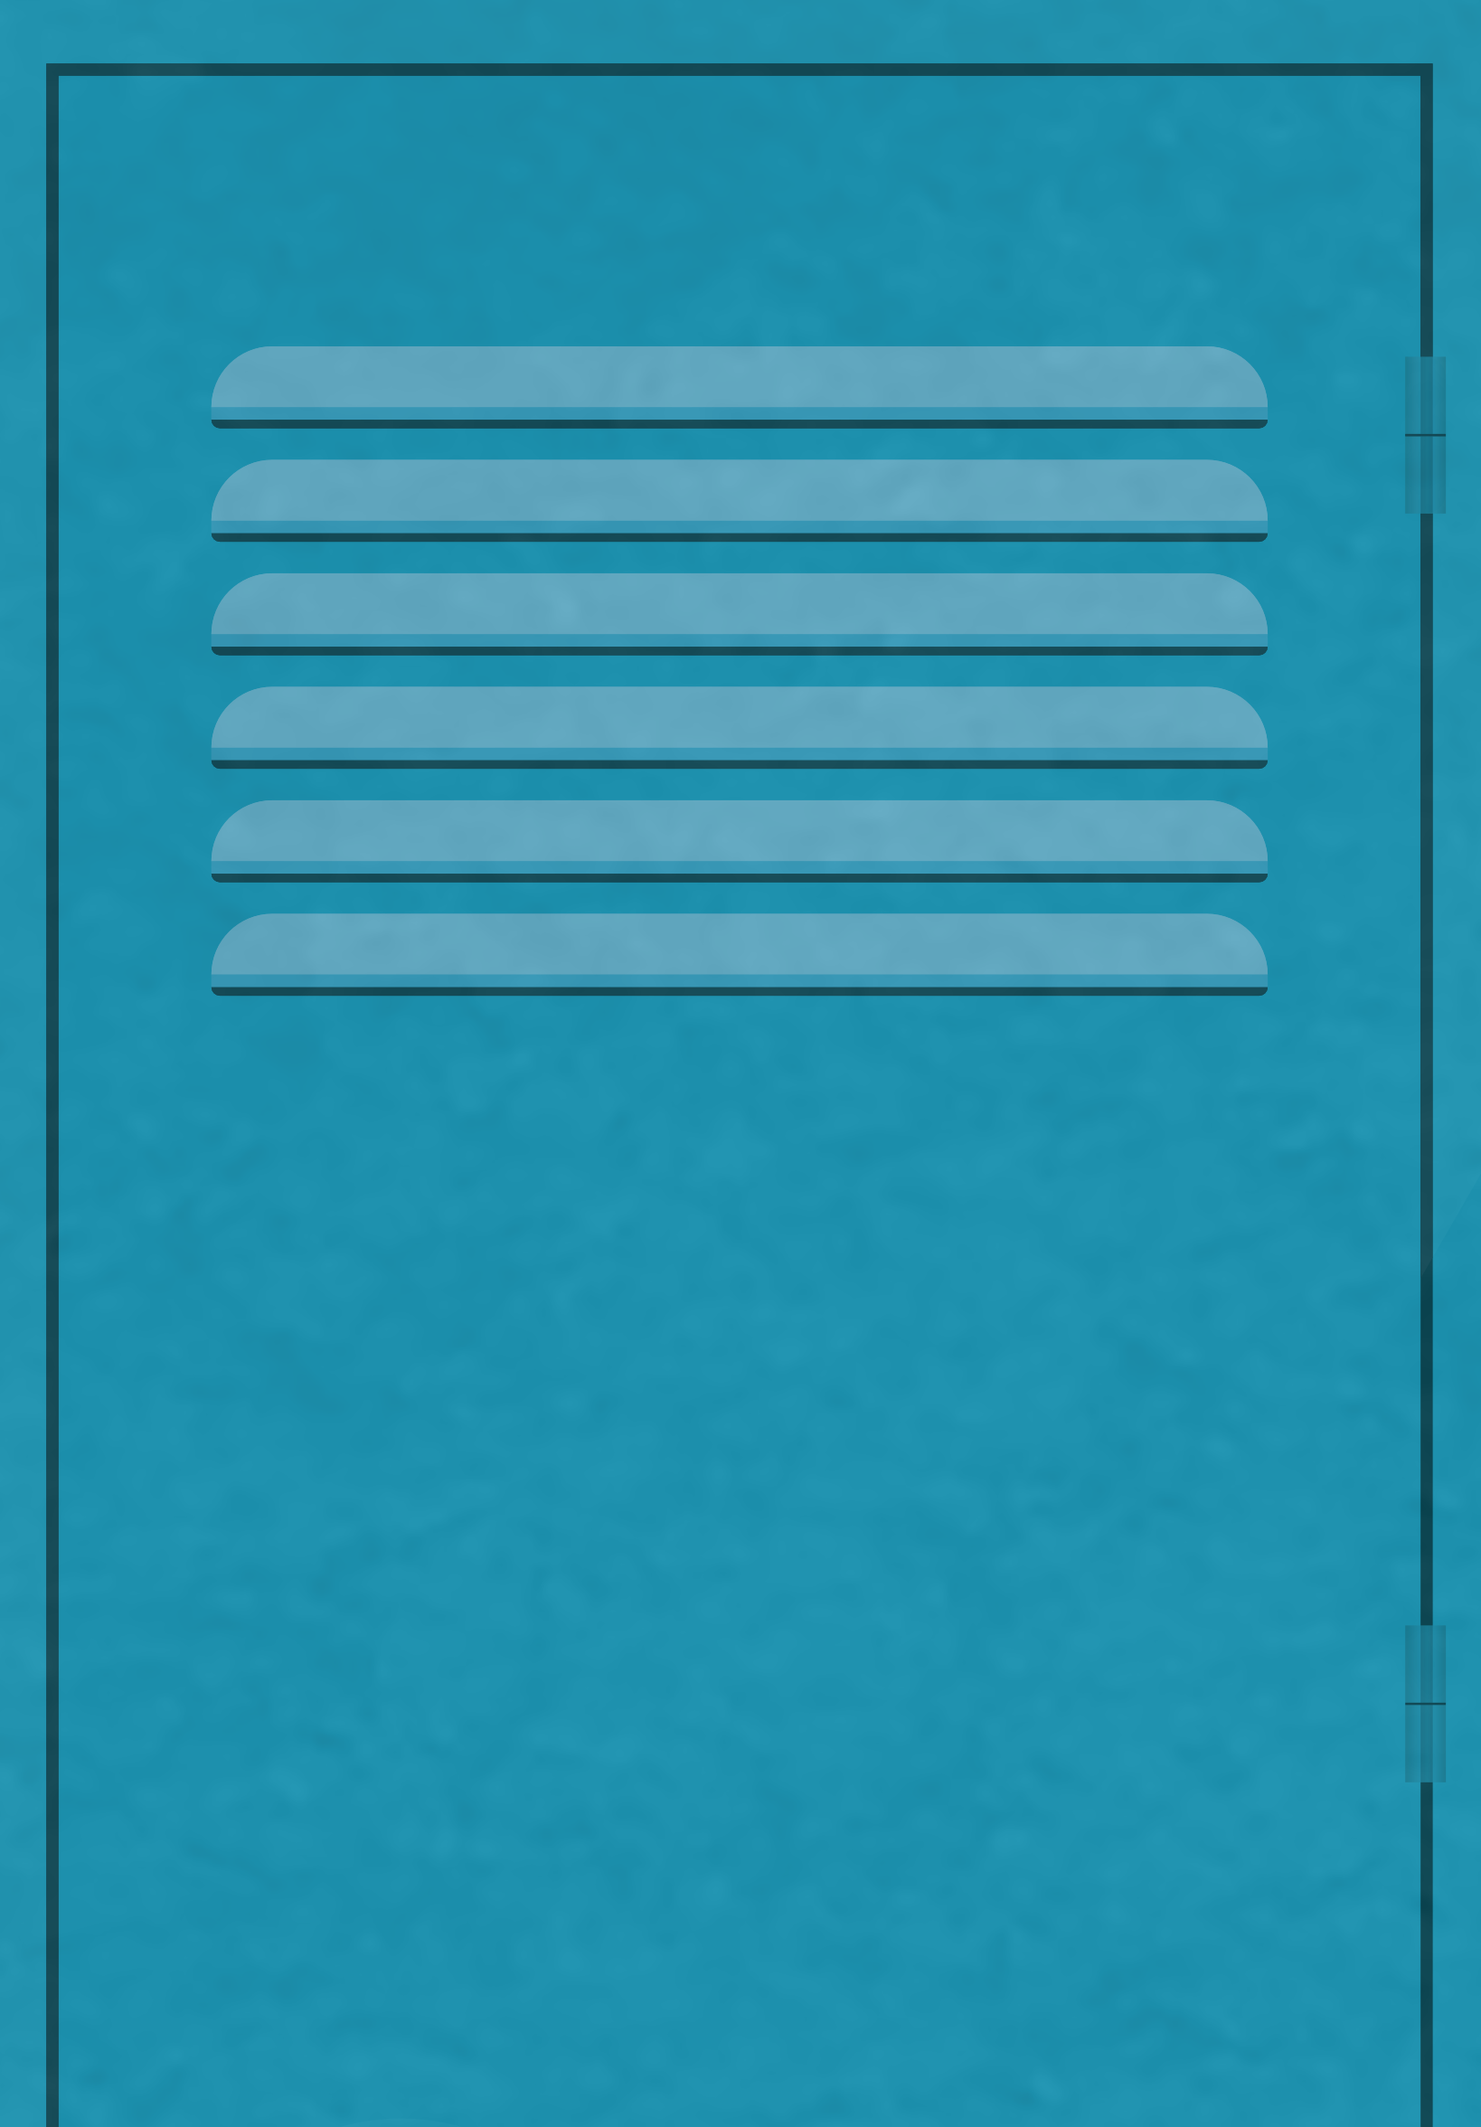
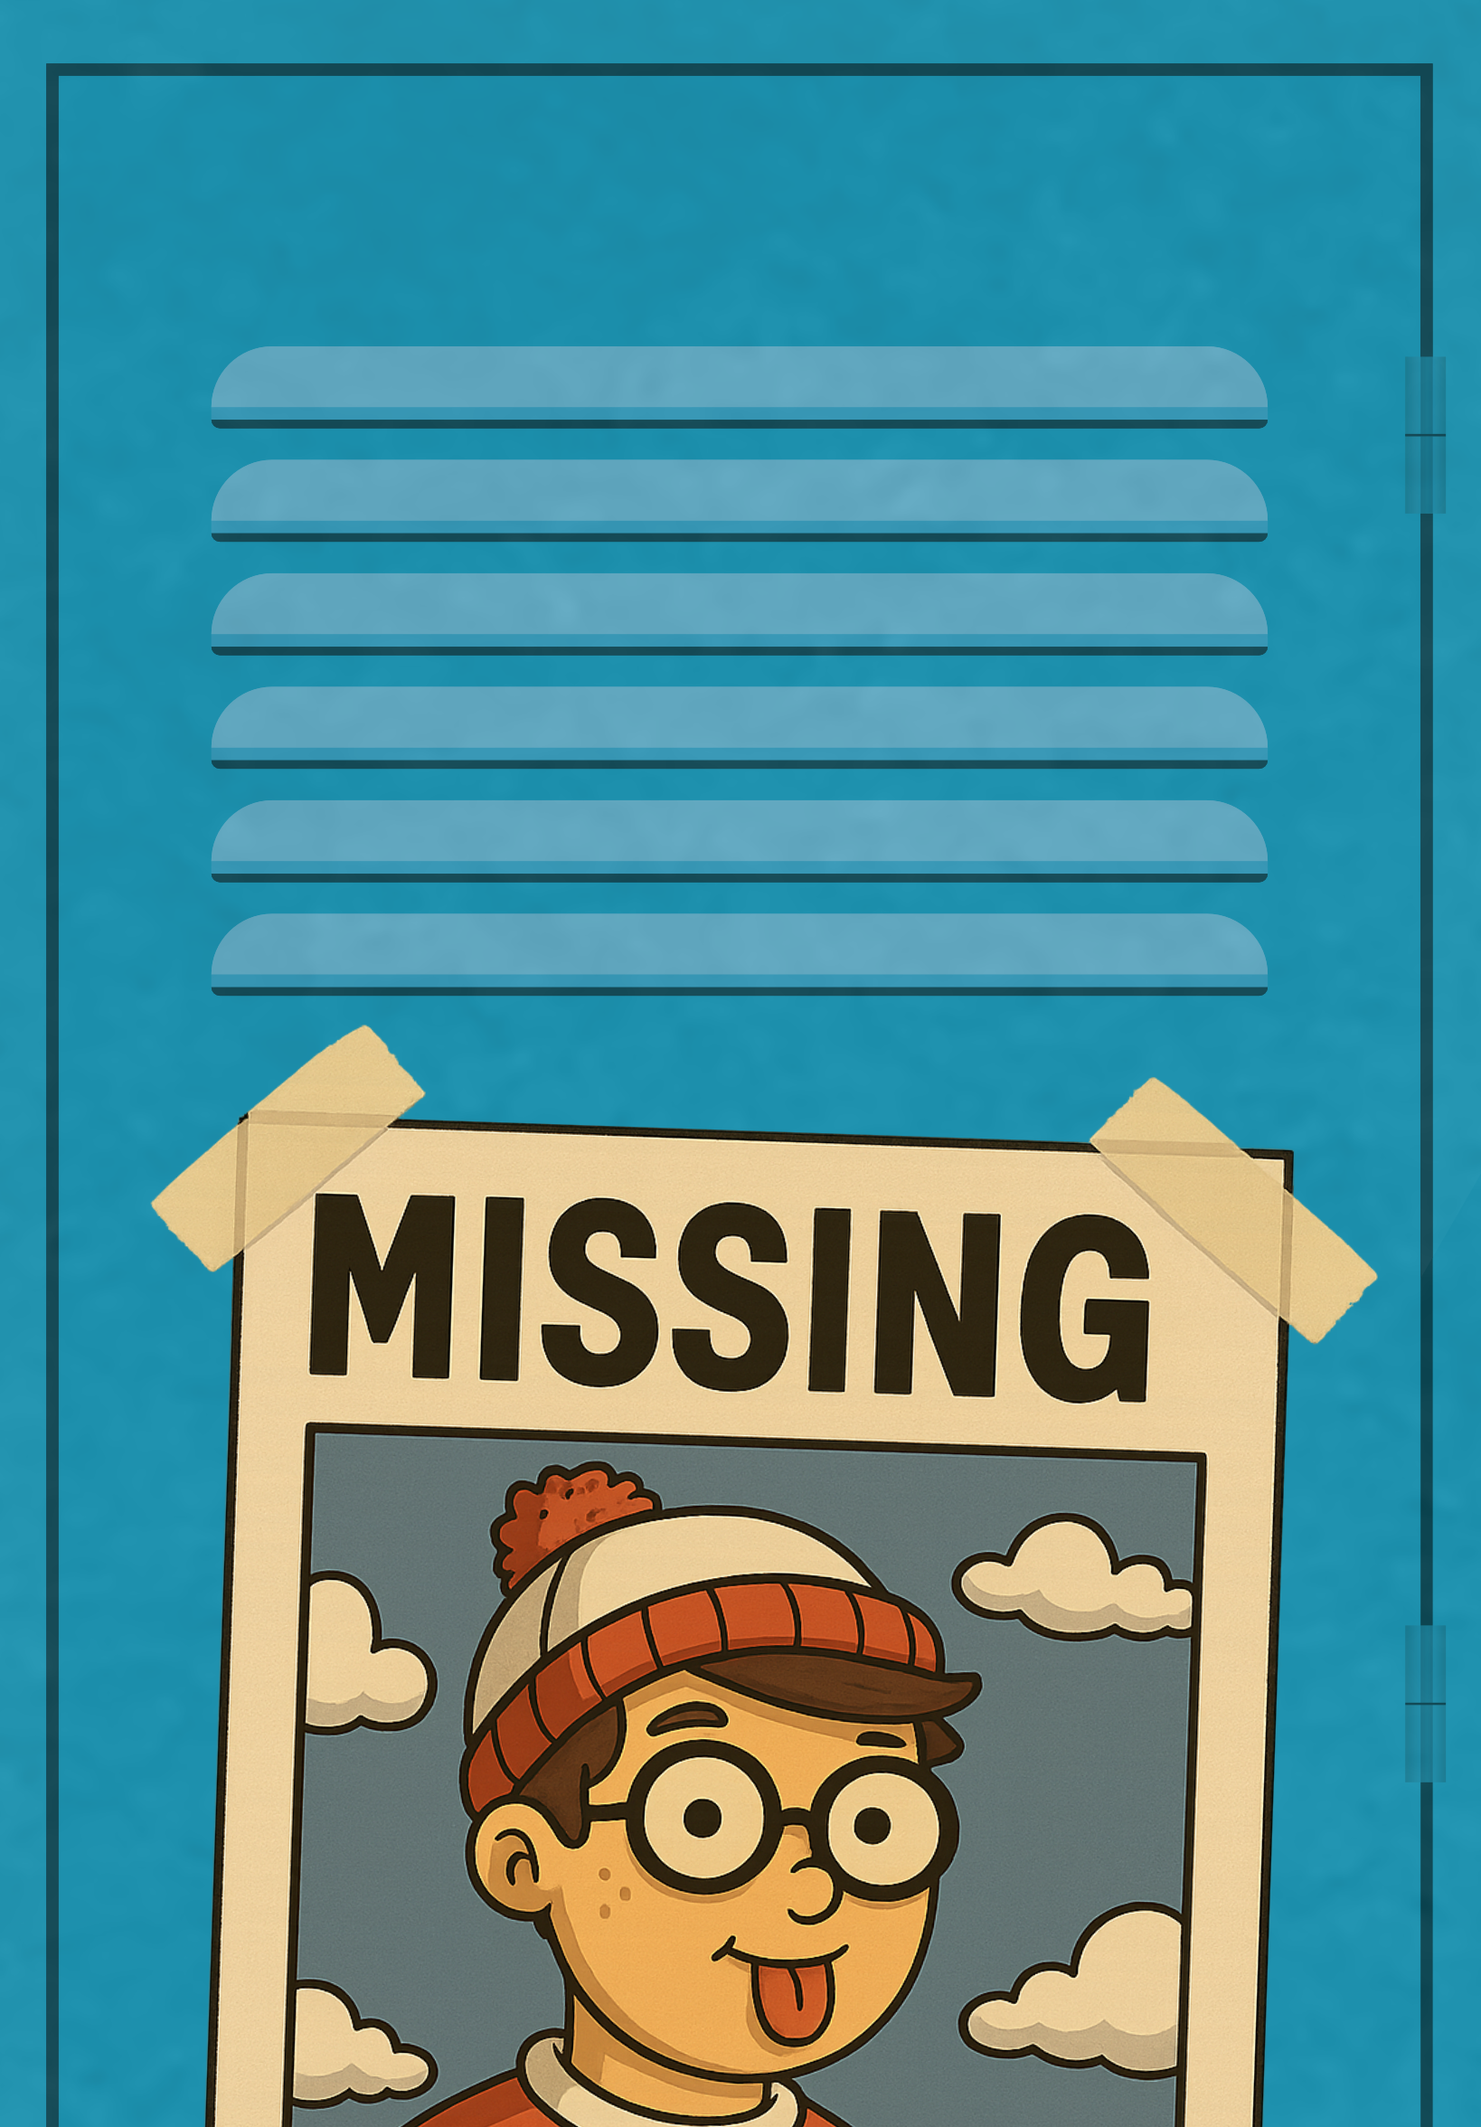
yes

diff --git a/src/windows/LockerSystemNew.tsx b/src/windows/LockerSystemNew.tsx
@@ -714,185 +714,51 @@ const LockerSystemNew: React.FC = () => {
                       ))}
                     </div>
 
-                    {/* Section 1: Top - 8-Bit Pixel Locker Interface */}
-                    <div className="locker-section pixel-locker" style={{
+                    {/* Section 1: Top - My Locker Front Image */}
+                    <div className="locker-section" style={{
                       height: '80vh',
+                      minHeight: '400px',
+                      backgroundImage: 'url(/images/my-locker-front.png)',
+                      backgroundSize: 'contain',
+                      backgroundPosition: 'center',
+                      backgroundRepeat: 'no-repeat',
+                      // Fallback if image doesn't load
+                      backgroundColor: '#4a90e2',
+                      position: 'relative',
                       display: 'flex',
+                      flexDirection: 'column',
                       alignItems: 'center',
                       justifyContent: 'center',
-                      textAlign: 'center',
-                      position: 'relative',
-                      background: `
-                        linear-gradient(180deg, 
-                          #4a90e2 0%, #357abd 20%, #2c5f88 40%, #357abd 60%, #4a90e2 80%, #5ba0f2 100%
-                        )
-                      `
+                      padding: '20px'
                     }}>
-                      {/* 8-Bit Style Locker Door */}
+                      {/* Optional overlay with locker info */}
                       <div style={{
-                        width: 'min(400px, 90vw)',
-                        height: 'min(500px, 70vh)',
-                        background: `
-                          linear-gradient(90deg, 
-                            #7c7c7c 0%, #a0a0a0 5%, #d4d4d4 10%, #f0f0f0 15%, #d4d4d4 20%, #a0a0a0 25%, #7c7c7c 30%,
-                            #7c7c7c 70%, #a0a0a0 75%, #d4d4d4 80%, #f0f0f0 85%, #d4d4d4 90%, #a0a0a0 95%, #7c7c7c 100%
-                          )
-                        `,
-                        border: '6px solid #333',
+                        position: 'absolute',
+                        bottom: '20px',
+                        left: '50%',
+                        transform: 'translateX(-50%)',
+                        background: 'rgba(0,0,0,0.8)',
+                        color: '#FFD700',
+                        padding: '15px 25px',
                         borderRadius: '8px',
-                        position: 'relative',
-                        display: 'flex',
-                        flexDirection: 'column',
-                        alignItems: 'center',
-                        justifyContent: 'space-between',
-                        padding: '20px',
-                        boxShadow: `
-                          0 0 0 2px #666,
-                          0 0 0 4px #999,
-                          inset 0 0 20px rgba(255, 255, 255, 0.3),
-                          0 8px 16px rgba(0, 0, 0, 0.4)
-                        `,
-                        imageRendering: 'pixelated'
+                        textAlign: 'center',
+                        border: '2px solid #FFD700',
+                        backdropFilter: 'blur(5px)'
                       }}>
-                        
-                        {/* Locker Vents - Top */}
                         <div style={{
-                          width: '80%',
-                          height: '40px',
-                          background: `
-                            repeating-linear-gradient(0deg,
-                              #333 0px, #333 3px, 
-                              transparent 3px, transparent 8px
-                            )
-                          `,
-                          border: '2px solid #222',
-                          borderRadius: '4px'
-                        }} />
-                        
-                        {/* Username Display Area - Pixel Style Nameplate */}
-                        <div className="pixel-nameplate" style={{
-                          width: '90%',
-                          background: `
-                            linear-gradient(45deg, 
-                              #ff6b35 0%, #f7931e 25%, #ffd700 50%, #f7931e 75%, #ff6b35 100%
-                            )
-                          `,
-                          border: '4px solid #333',
-                          borderRadius: '8px',
-                          padding: '15px 10px',
-                          margin: '10px 0',
-                          position: 'relative'
+                          fontSize: 'clamp(16px, 4vw, 20px)',
+                          fontWeight: 'bold',
+                          marginBottom: '5px'
                         }}>
-                          <div style={{
-                            background: '#000',
-                            color: '#00ff00',
-                            fontFamily: 'Courier New, monospace',
-                            fontSize: 'clamp(14px, 4vw, 20px)',
-                            fontWeight: 'bold',
-                            padding: '8px',
-                            borderRadius: '4px',
-                            border: '2px solid #00ff00',
-                            textShadow: '0 0 8px #00ff00',
-                            letterSpacing: '2px',
-                            textTransform: 'uppercase'
-                          }}>
-                            {lockerInfo.username || 'STUDENT'}
-                          </div>
+                          {lockerInfo.username || 'STUDENT'}
                         </div>
-                        
-                        {/* Locker Number Display - Classic Arcade Style */}
                         <div style={{
-                          width: '70%',
-                          background: `
-                            radial-gradient(circle, 
-                              #ff00ff 0%, #8b00ff 30%, #4b0082 60%, #000 100%
-                            )
-                          `,
-                          border: '6px solid #333',
-                          borderRadius: '12px',
-                          padding: '20px',
-                          margin: '15px 0',
-                          position: 'relative',
-                          boxShadow: `
-                            inset 0 0 20px rgba(255, 0, 255, 0.5),
-                            0 0 30px rgba(255, 0, 255, 0.3)
-                          `
+                          fontSize: 'clamp(18px, 5vw, 24px)',
+                          fontWeight: 'bold',
+                          color: '#FFD700',
+                          textShadow: '0 0 8px #FFD700'
                         }}>
-                          <div style={{
-                            color: '#00ffff',
-                            fontFamily: 'Courier New, monospace',
-                            fontSize: 'clamp(24px, 6vw, 36px)',
-                            fontWeight: 'bold',
-                            textShadow: `
-                              0 0 10px #00ffff,
-                              0 0 20px #00ffff,
-                              0 0 30px #00ffff
-                            `,
-                            letterSpacing: '3px'
-                          }}>
-                            LOCKER
-                          </div>
-                          <div style={{
-                            color: '#ffff00',
-                            fontFamily: 'Courier New, monospace',
-                            fontSize: 'clamp(32px, 8vw, 48px)',
-                            fontWeight: 'bold',
-                            textShadow: `
-                              0 0 10px #ffff00,
-                              0 0 20px #ffff00,
-                              0 0 30px #ffff00
-                            `,
-                            letterSpacing: '4px',
-                            marginTop: '5px'
-                          }}>
-                            #{lockerInfo.locker_number}
-                          </div>
-                        </div>
-                        
-                        {/* Locker Handle - Pixel Art Style */}
-                        <div style={{
-                          width: '20px',
-                          height: '60px',
-                          background: `
-                            linear-gradient(90deg, 
-                              #ffd700 0%, #ffed4e 50%, #ffd700 100%
-                            )
-                          `,
-                          border: '3px solid #333',
-                          borderRadius: '10px',
-                          position: 'absolute',
-                          right: '15px',
-                          top: '50%',
-                          transform: 'translateY(-50%)',
-                          boxShadow: `
-                            inset 0 0 10px rgba(255, 215, 0, 0.8),
-                            2px 2px 5px rgba(0, 0, 0, 0.5)
-                          `
-                        }}>
-                          <div style={{
-                            width: '8px',
-                            height: '8px',
-                            background: '#333',
-                            borderRadius: '50%',
-                            margin: '26px auto'
-                          }} />
-                        </div>
-                        
-                        {/* Digital Welcome Message */}
-                        <div style={{
-                          background: '#000',
-                          color: '#00ff00',
-                          fontFamily: 'Courier New, monospace',
-                          fontSize: 'clamp(10px, 2.5vw, 14px)',
-                          padding: '8px',
-                          border: '2px solid #00ff00',
-                          borderRadius: '4px',
-                          textAlign: 'center',
-                          width: '90%',
-                          textShadow: '0 0 5px #00ff00',
-                          animation: 'pixelGlow 2s ease-in-out infinite'
-                        }}>
-                          &gt; WELCOME TO YOUR LOCKER_
+                          LOCKER #{lockerInfo.locker_number}
                         </div>
                       </div>
                     </div>

diff --git a/src/windows/Locations/ArcadeMain.tsx b/src/windows/Locations/ArcadeMain.tsx
@@ -17,9 +17,9 @@ const ArcadeMain = () => {
   const entranceAudioRef = useRef<HTMLAudioElement | null>(null);
   const [isEntranceMuted, setIsEntranceMuted] = useState(false);
 
-  // Use your uploaded day/night images for Arcade
-  const dayImage = "/images/icons/arcade-day.png";
-  const nightImage = "/images/icons/arcade-night.png";
+  // Use the "Flunko missing" themed day/night images for Arcade
+  const dayImage = "/images/icons/arcade-flunko-day.png";
+  const nightImage = "/images/icons/arcade-flunko-night.png";
   const timeBasedInfo = useTimeBasedImage(dayImage, nightImage);
 
   // Initialize background music for arcade entrance
@@ -419,14 +419,31 @@ const ArcadeMain = () => {
         <div style={{
           textAlign: 'center',
           padding: '20px',
-          background: 'linear-gradient(45deg, #FFD700, #FF69B4, #9370DB)',
-          WebkitBackgroundClip: 'text',
-          WebkitTextFillColor: 'transparent',
-          fontSize: '32px',
-          fontWeight: 'bold',
           fontFamily: "'Press Start 2P', monospace"
         }}>
-          🧙♂ WELCOME TO THE WIZARD'S ARCADE! 🧙♂
+          <div style={{
+            background: 'linear-gradient(45deg, #FFD700, #FF6347)',
+            WebkitBackgroundClip: 'text',
+            WebkitTextFillColor: 'transparent',
+            fontSize: 'clamp(20px, 4vw, 28px)',
+            fontWeight: 'bold',
+            marginBottom: '8px',
+            textShadow: '2px 2px 0px #000, -2px -2px 0px #000, 2px -2px 0px #000, -2px 2px 0px #000',
+            letterSpacing: '2px'
+          }}>
+            🧙♂ WELCOME TO 🧙♂
+          </div>
+          <div style={{
+            background: 'linear-gradient(45deg, #9370DB, #FF69B4)',
+            WebkitBackgroundClip: 'text',
+            WebkitTextFillColor: 'transparent',
+            fontSize: 'clamp(18px, 3.5vw, 24px)',
+            fontWeight: 'bold',
+            textShadow: '2px 2px 0px #000, -2px -2px 0px #000, 2px -2px 0px #000, -2px 2px 0px #000',
+            letterSpacing: '3px'
+          }}>
+            THE WIZARD'S ARCADE!
+          </div>
         </div>
 
         {/* Top Row - 4 buttons */}
@@ -680,8 +697,8 @@ const ArcadeMain = () => {
           onClose={() => closeWindow(WINDOW_IDS.ARCADE_LOBBY)}
           headerTitle="🧙♂ Wizard's Arcade Lobby"
           headerIcon="/images/icons/arcade-day.png"
-          initialWidth="900px"
-          initialHeight="700px"
+          initialWidth="1050px"
+          initialHeight="800px"
           resizable={true}
         >
           <ArcadeLobby />
@@ -698,7 +715,7 @@ const ArcadeMain = () => {
           src={timeBasedInfo.currentImage}
           alt={`Arcade Background - ${timeBasedInfo.isDay ? 'Day' : 'Night'}`}
           className="block object-contain z-0 transition-opacity duration-500"
-          style={{ maxHeight: '500px', maxWidth: '700px', width: 'auto', height: 'auto' }}
+          style={{ maxHeight: '750px', maxWidth: '1050px', width: 'auto', height: 'auto' }}
           onError={(e) => {
             e.currentTarget.src = "/images/backdrops/BLANK.png";
           }}
@@ -783,12 +800,13 @@ const ArcadeMain = () => {
             }}
             className="bg-gradient-to-r from-purple-600 via-blue-600 to-purple-800 text-white px-8 py-4 rounded-lg hover:from-purple-500 hover:via-blue-500 hover:to-purple-700 transition-all duration-300 hover:scale-105 text-center font-bold border-4 border-yellow-300 shadow-2xl relative overflow-hidden"
             style={{
-              textShadow: '2px 2px 4px rgba(0,0,0,0.8)',
-              boxShadow: '0 8px 25px rgba(138,43,226,0.6), inset 0 0 20px rgba(255,255,255,0.2)',
-              minWidth: '400px',
-              fontSize: '16px',
+              textShadow: '3px 3px 6px rgba(0,0,0,0.8)',
+              boxShadow: '0 12px 35px rgba(138,43,226,0.8), inset 0 0 25px rgba(255,255,255,0.3)',
+              minWidth: '600px',
+              fontSize: '20px',
               fontFamily: "'Press Start 2P', monospace",
-              whiteSpace: 'nowrap'
+              whiteSpace: 'nowrap',
+              padding: '20px 40px'
             }}
           >
             🧙♂ ENTER WIZARD'S ARCADE 🧙♂

diff --git a/src/components/WeeklyObjectives.tsx b/src/components/WeeklyObjectives.tsx
@@ -173,11 +173,11 @@ const WeeklyObjectives: React.FC<WeeklyObjectivesProps> = ({ onObjectiveComplete
         animation: 'titleShine 2s ease-in-out infinite'
       }}>
         <div style={{
-          fontSize: 'clamp(28px, 8vw, 56px)',
+          fontSize: 'clamp(20px, 6vw, 40px)',
           fontWeight: 'bold',
           color: '#001122',
-          textShadow: '3px 3px 0px #FFFFFF, -3px -3px 0px #FFFFFF, 3px -3px 0px #FFFFFF, -3px 3px 0px #FFFFFF',
-          letterSpacing: '4px',
+          textShadow: '2px 2px 0px #FFFFFF, -2px -2px 0px #FFFFFF, 2px -2px 0px #FFFFFF, -2px 2px 0px #FFFFFF',
+          letterSpacing: '3px',
           animation: 'titlePulse 1.5s ease-in-out infinite',
           marginBottom: '12px',
           fontFamily: '"Courier New", "Lucida Console", monospace',
